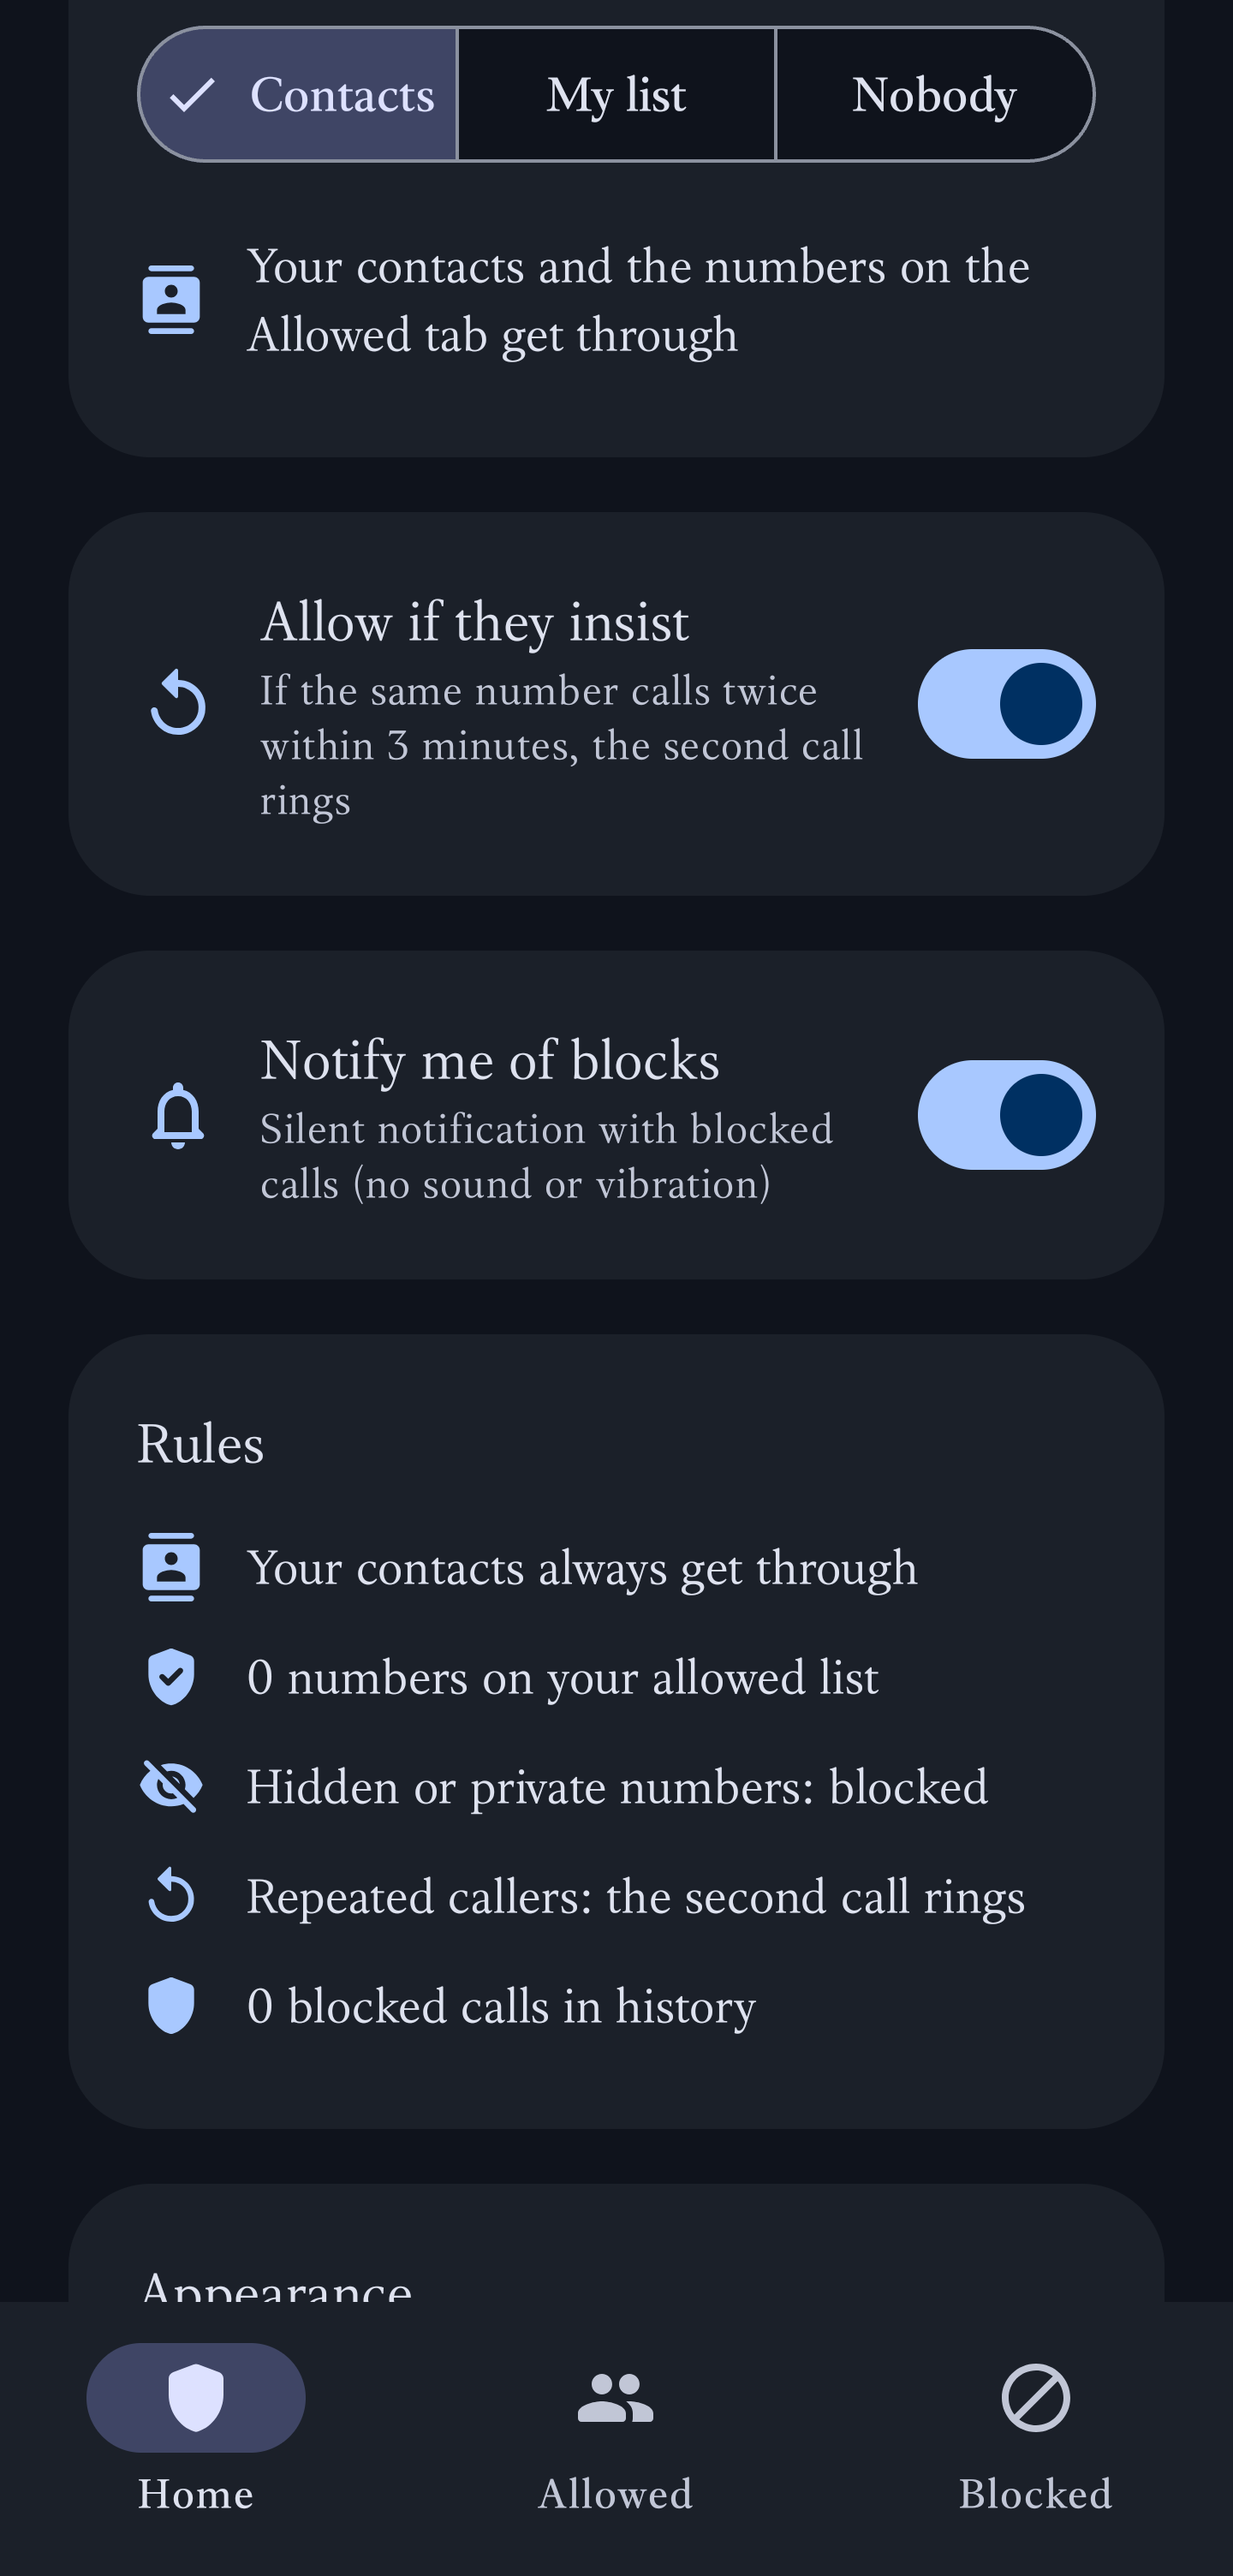
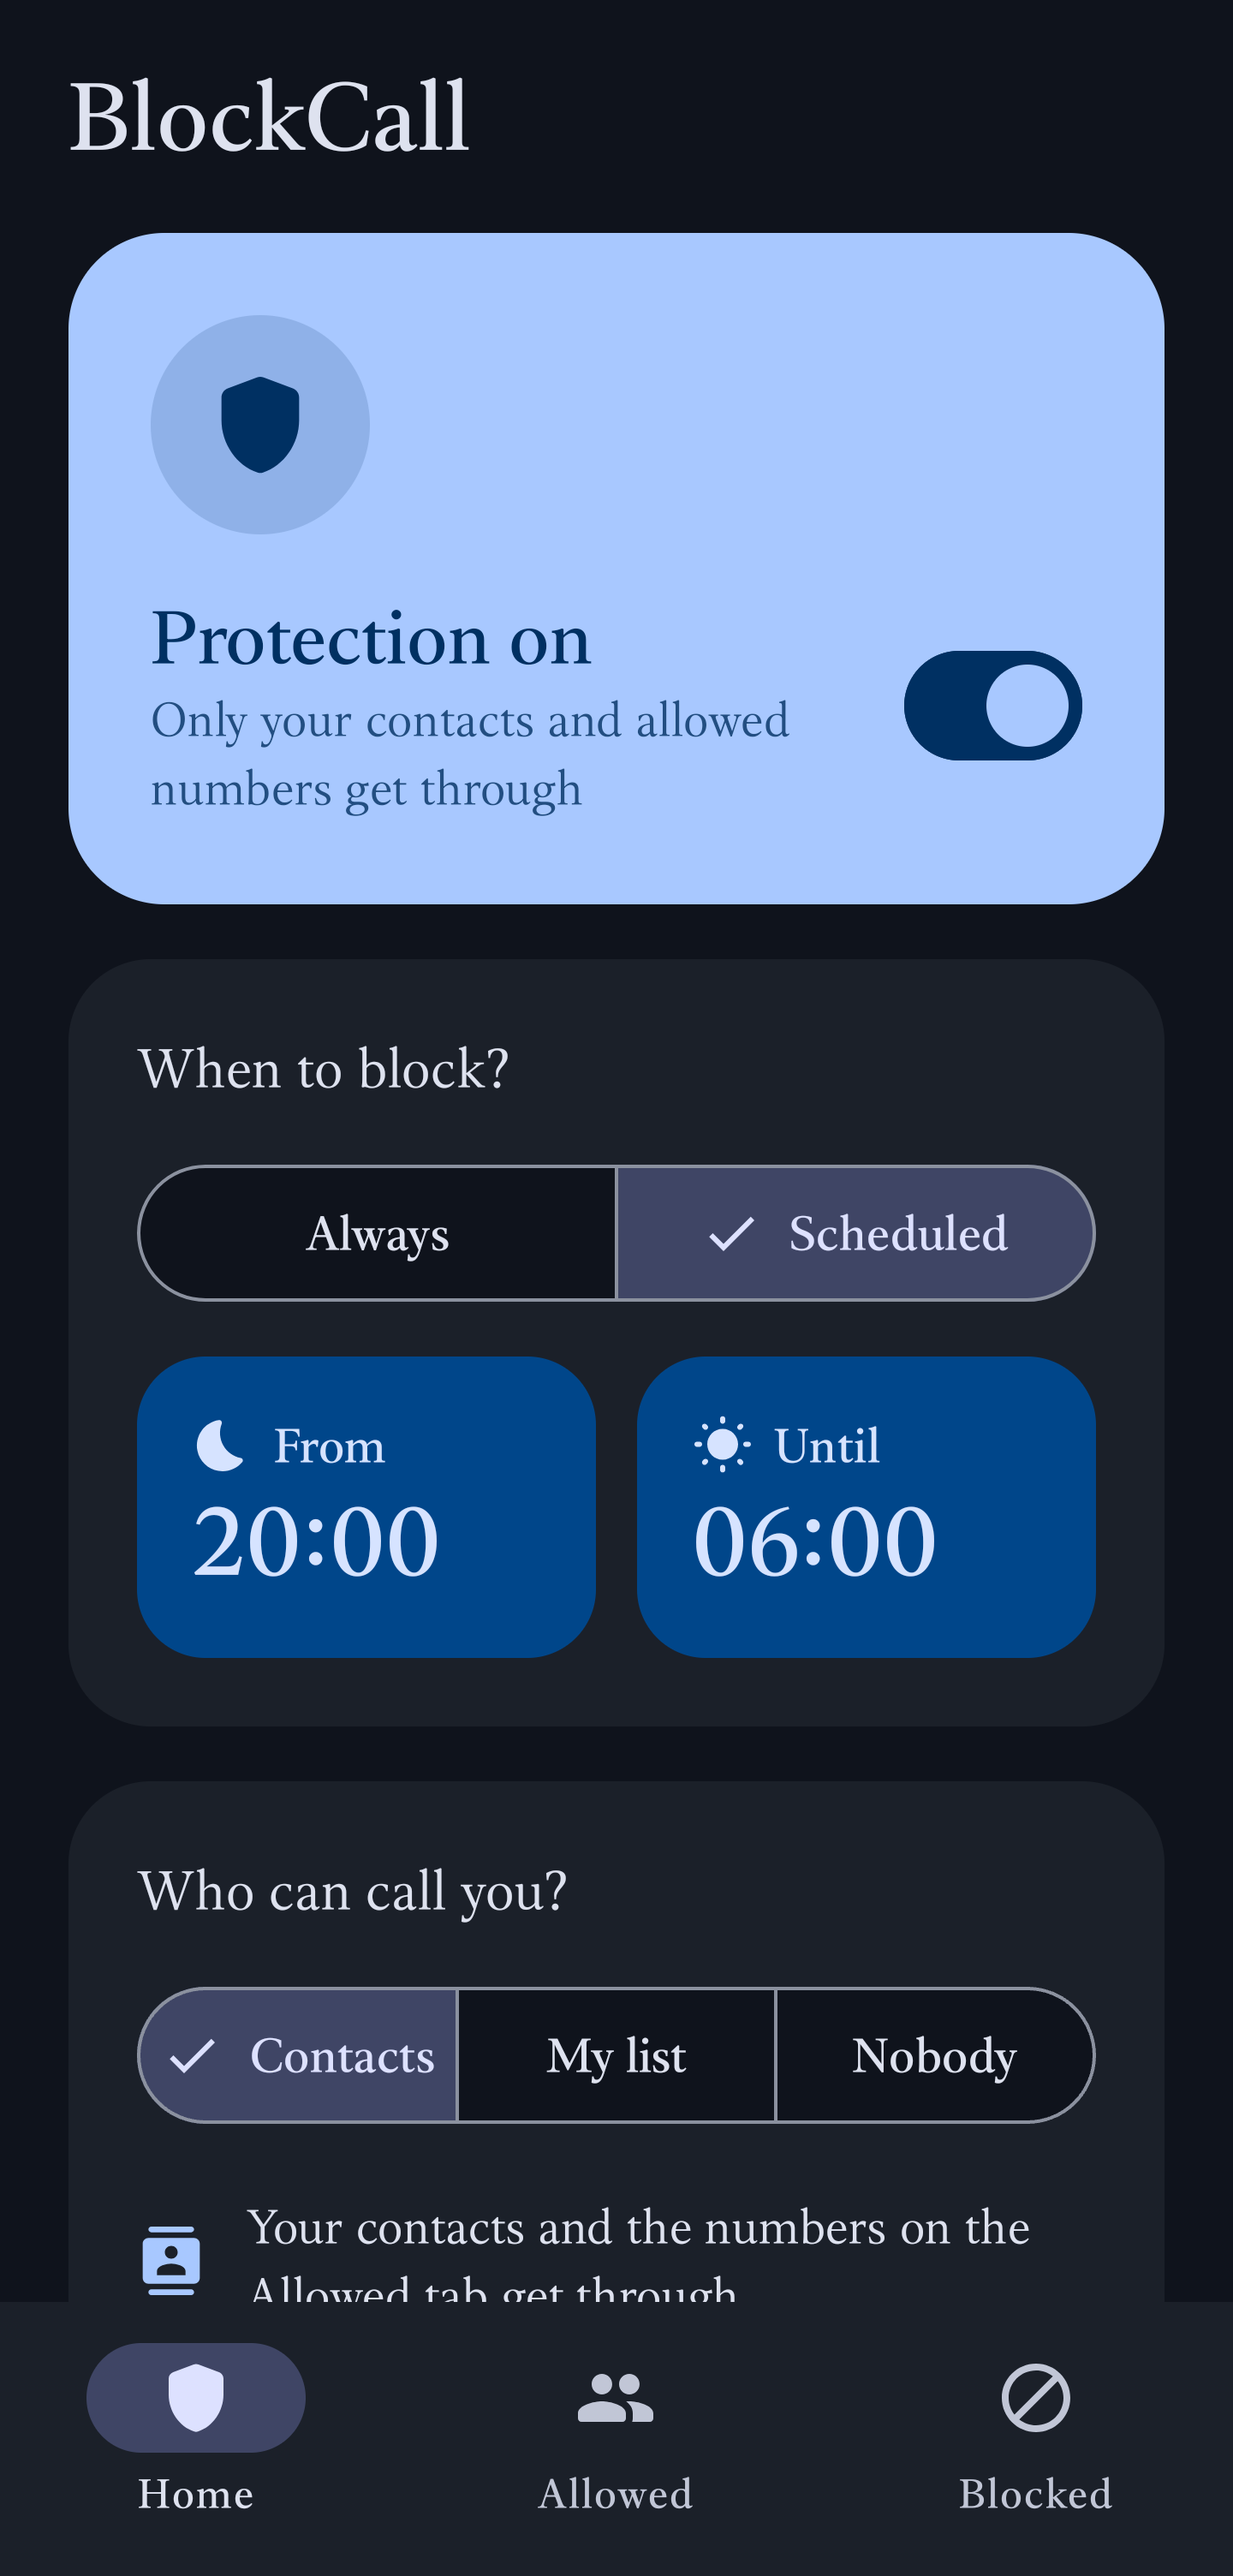
Ficha de tiendas: 8 capturas por idioma con todas las funciones

diff --git a/README.md b/README.md
@@ -7,10 +7,10 @@ Android app (10+) that silently rejects incoming calls from numbers that aren't 
 [**⬇ Download the latest APK**](https://github.com/blockcallcm/BlockCall/releases/latest) · License: [GPL-3.0](LICENSE)
 
 <p>
-  <img src="fastlane/metadata/android/en-US/images/phoneScreenshots/1.png" width="200" alt="Welcome">
-  <img src="fastlane/metadata/android/en-US/images/phoneScreenshots/2.png" width="200" alt="Call screening permission">
   <img src="fastlane/metadata/android/en-US/images/phoneScreenshots/3.png" width="200" alt="Home">
-  <img src="fastlane/metadata/android/en-US/images/phoneScreenshots/4.png" width="200" alt="Settings and rules">
+  <img src="fastlane/metadata/android/en-US/images/phoneScreenshots/4.png" width="200" alt="Schedule">
+  <img src="fastlane/metadata/android/en-US/images/phoneScreenshots/6.png" width="200" alt="Allowed list">
+  <img src="fastlane/metadata/android/en-US/images/phoneScreenshots/7.png" width="200" alt="Blocked calls">
 </p>
 
 ## Features

diff --git a/README.es.md b/README.es.md
@@ -7,10 +7,10 @@ App Android (10+) que rechaza en silencio las llamadas entrantes de números que
 [**⬇ Descargar el último APK**](https://github.com/blockcallcm/BlockCall/releases/latest) · Licencia: [GPL-3.0](LICENSE)
 
 <p>
-  <img src="fastlane/metadata/android/es-ES/images/phoneScreenshots/1.png" width="200" alt="Bienvenida">
-  <img src="fastlane/metadata/android/es-ES/images/phoneScreenshots/2.png" width="200" alt="Permiso de filtro">
   <img src="fastlane/metadata/android/es-ES/images/phoneScreenshots/3.png" width="200" alt="Inicio">
-  <img src="fastlane/metadata/android/es-ES/images/phoneScreenshots/5.png" width="200" alt="Bloqueadas">
+  <img src="fastlane/metadata/android/es-ES/images/phoneScreenshots/4.png" width="200" alt="Horario">
+  <img src="fastlane/metadata/android/es-ES/images/phoneScreenshots/6.png" width="200" alt="Permitidos">
+  <img src="fastlane/metadata/android/es-ES/images/phoneScreenshots/7.png" width="200" alt="Bloqueadas">
 </p>
 
 ## Funciones
